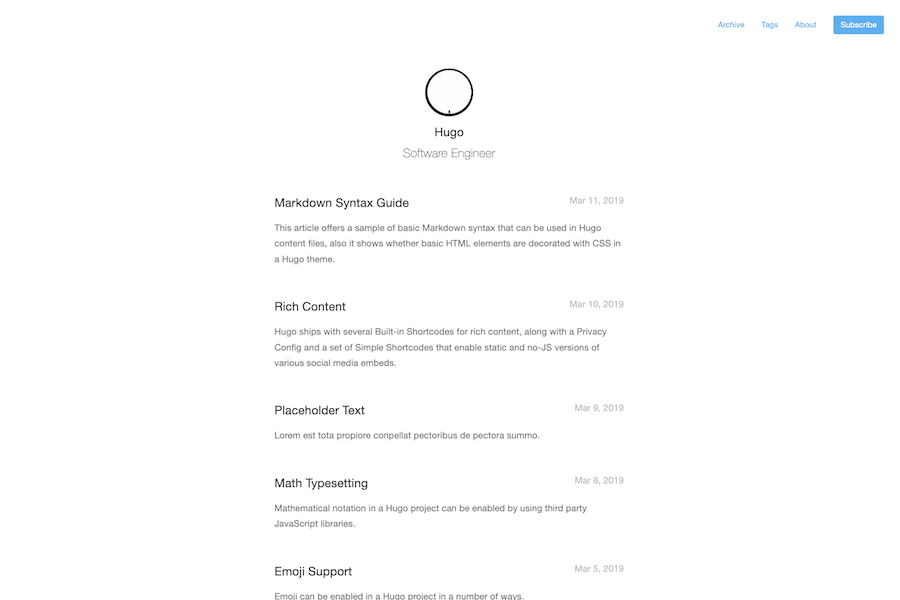
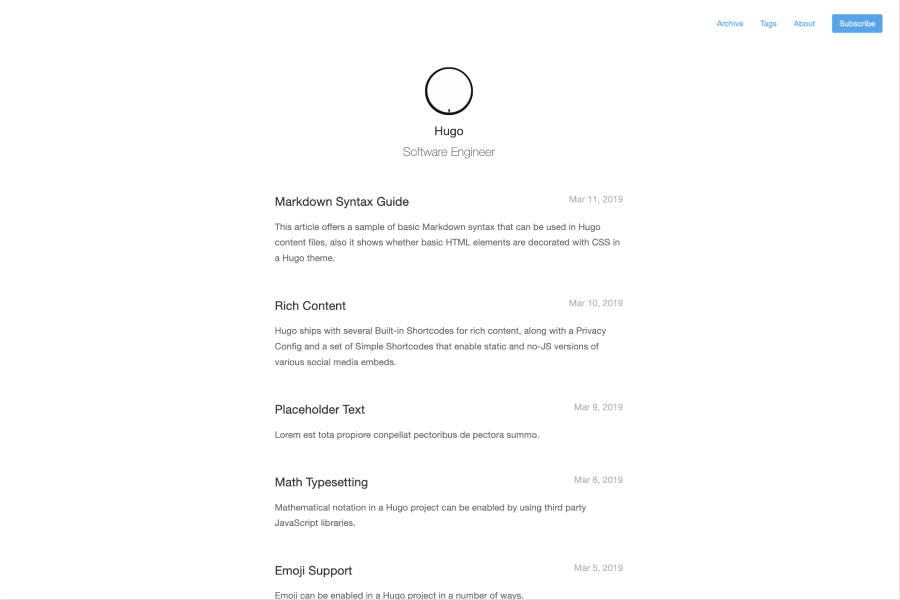
feat: update layouts

diff --git a/layouts/partials/head.html b/layouts/partials/head.html
@@ -13,6 +13,10 @@
 <link rel="stylesheet" href="{{ "/css/style.css" | relURL }}">
 <link rel="shortcut icon" href="{{ "/images/favicon.ico" | relURL }}" type="image/x-icon" />
 
+{{ if .Site.Params.enableGoogleAnalytics }} 
+    {{ template "_internal/google_analytics_async.html" . }}
+{{ end }}
+
 
 {{ if .OutputFormats.Get "RSS" }}
   {{ with .OutputFormats.Get "RSS" }}

diff --git a/layouts/partials/comment.html b/layouts/partials/comment.html
@@ -1,4 +1,6 @@
-<div id="comment">
-  <!-- https://gohugo.io/templates/internal/#use-the-disqus-template -->
-  {{ template "_internal/disqus.html" . }}
-</div>
+{{ if .Site.Params.enableComments }} 
+  <div id="comment">
+    <!-- https://gohugo.io/templates/internal/#use-the-disqus-template -->
+    {{ template "_internal/disqus.html" . }}
+  </div>
+{{ end }}

diff --git a/layouts/partials/navigation.html b/layouts/partials/navigation.html
@@ -11,6 +11,6 @@
 	{{ end }}
 
 	{{ if .Site.Params.enableRSS }}
-	<a class="button" href="{{ .Site.RSSLink }}">{{ with .Site.Params.subscribe }}{{ . }}{{ else }}Subscribe{{ end }}</a>
+	  <a class="button" href="{{ .Site.RSSLink }}">{{ with .Site.Params.subscribe }}{{ . }}{{ else }}Subscribe{{ end }}</a>
 	{{ end }}
 </nav>

diff --git a/layouts/section/about.html b/layouts/section/about.html
@@ -3,6 +3,9 @@
 
 <section id="section">
     {{ .Content }}
+
+    {{ partial "comment.html" . }}
 </section>
+
 
 {{ end }}

diff --git a/README.md b/README.md
@@ -30,26 +30,32 @@ Features:
 
 1. From your project's root directory, initiate the hugo module system if you haven't already:
 
-   ```
-   $ hugo mod init github.com/<your_user>/<your_project>
-   ```
+    ```
+    $ hugo mod init github.com/<your_user>/<your_project>
+    ```
 
 2. Add the theme's repo to your `config.yaml`:
 
-   ```yaml
-   theme: 
-     - github.com/nodejh/gohugo-theme-mini
-   ```
+    ```yaml
+    theme: 
+       - github.com/nodejh/hugo-theme-mini
+    ```
 
 ### As Git Submodule
 
-Inside the folder of your Hugo site run:
+1. Inside the folder of your Hugo site run:
 
-```
-$ git submodule add https://github.com/nodejh/gohugo-theme-mini.git themes/mini
-```
+  ```
+  $ git submodule add https://github.com/nodejh/hugo-theme-mini.git themes/mini
+  ```
+
+2. Add the theme's directory to your `config.yaml`:
+
+    ```yaml
+   theme: mini
+    ```
+
 For more information read the official [setup guide](//gohugo.io/overview/installing/) of Hugo.
-
 
 
 ## Getting started
@@ -59,15 +65,45 @@ After installing the theme successfully it requires a just a few more steps to g
 
 ### The config file
 
-Take a look inside the [`exampleSite`](https://github.com/nodejh/gohugo-theme-mini/tree/master/exampleSite) folder of this theme. You'll find a file called [`config.yaml`](https://github.com/nodejh/gohugo-theme-mini/blob/master/exampleSite/config.yaml). To use it, copy the [`config.yaml`](https://github.com/nodejh/gohugo-theme-mini/blob/master/exampleSite/config.yaml) in the root folder of your Hugo site. Feel free to change the strings in this theme.
+Take a look inside the [`exampleSite`](https://github.com/nodejh/hugo-theme-mini/tree/master/exampleSite) folder of this theme. You'll find a file called [`config.yaml`](https://github.com/nodejh/hugo-theme-mini/blob/master/exampleSite/config.yaml). To use it, copy the [`config.yaml`](https://github.com/nodejh/hugo-theme-mini/blob/master/exampleSite/config.yaml) in the root folder of your Hugo site. Feel free to change the strings in this theme.
 
-You may need to delete the line: `themesDir: ../../`
+> ⚠ You may need to delete the line: `themesDir: ../../` 
 
+### Add Comments
+
+To enable comments, add following to your config file:
+
+- DISQUS: `disqusShortname: your-disqus-shorname`
+- Enable Comment:
+
+    ```yaml
+    params:
+      enableComments: true
+    ```
+
+### Google Analytics
+
+To enable google analytics, add following to your config file:
+
+- DISQUS: `googleAnalytics: your-google-analytics-id`
+- Enable Comment:
+
+    ```yaml
+    params:
+      enableGoogleAnalytics: true
+    ```
 
 ### Logo and favicon
 
-You can replace the log in the top of each page and favicon with your own images. To do that replace `static/images/avatar.png` and `static/images/favicon.ico` .
+You can replace the log in the top of each page and favicon with your own images. To do that put your own logo and favicon into the `images` directory of your website static directory, then named them `avatar.png` and `favicon.ico`. For example:
 
+```
+- content
+- static
+└── images
+    ├── avatar.png
+    └── favicon.ico
+```
 
 ### Nearly finished
 
@@ -78,3 +114,7 @@ $ hugo server
 ```
 
 Now enter localhost:1313 in the address bar of your browser.
+
+## License
+
+[MIT](https://github.com/nodejh/hugo-theme-mini/blob/master/LICENSE.md)
